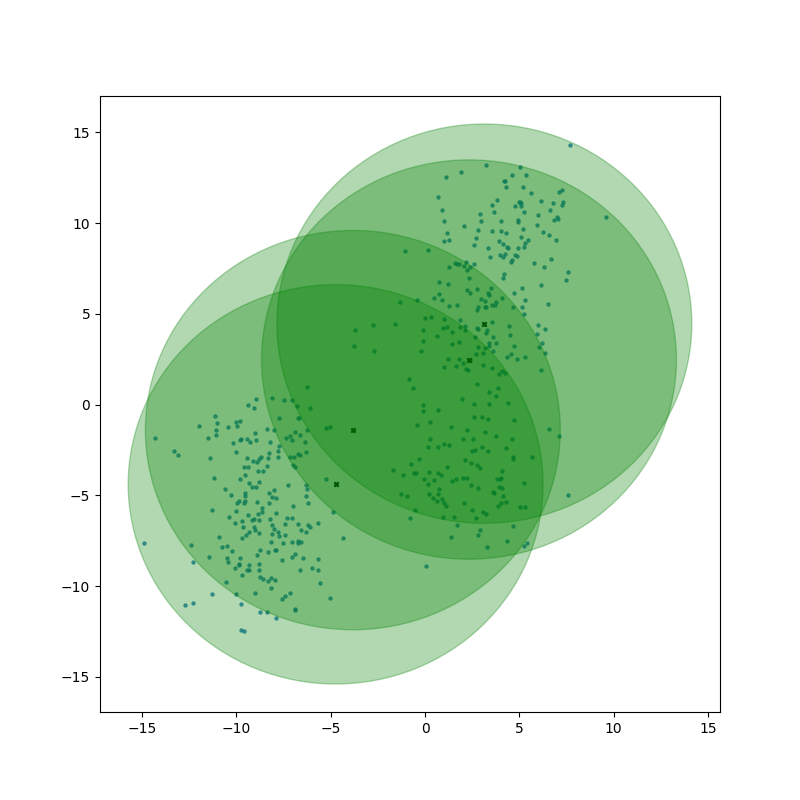
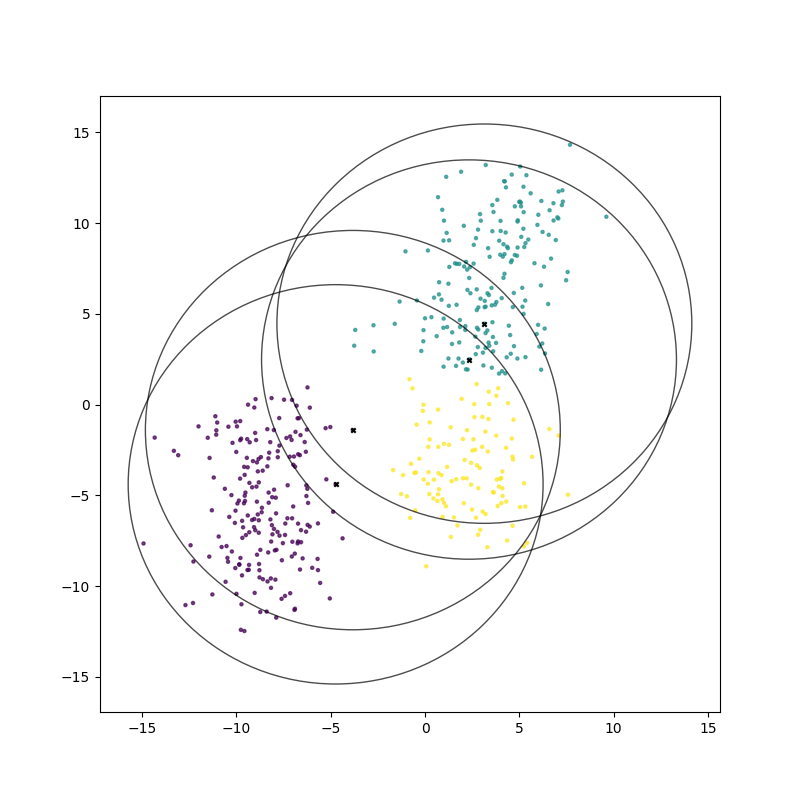
0611

diff --git a/Scatter_circles.py b/Scatter_circles.py
@@ -7,15 +7,15 @@ def scatter_circles(selected_point, radius, data, P):
     title = './result/radius_' + str(radius) + ".png"
 
     fig, ax_nstd = plt.subplots(figsize=(8, 8))
-    
-    plt.scatter(data['X'],data['Y'], s=5, alpha=0.7)
-    if (P==None):
-        for Cx, Cy in selected_point:
-            plt.scatter(Cx, Cy, color = 'k', marker = 'x', s = 10)
-            ax_nstd.add_patch(plt.Circle((Cx, Cy), radius, color='g', alpha=0.3))
+
+    if P.size == 0:
+        plt.scatter(data['X'],data['Y'], s=5, alpha=0.7)
     else:
-        for Cx, Cy in selected_point:
-            plt.scatter(Cx, Cy, color = 'k', marker = 'x', s = 10, c=P)
-            ax_nstd.add_patch(plt.Circle((Cx, Cy), radius, color='lavender', alpha=0.3))
+        plt.scatter(data['X'],data['Y'], s=5, alpha=0.7, c=P)
+
+    for Cx, Cy in selected_point:
+        plt.scatter(Cx, Cy, color = 'k', marker = 'x', s = 10)
+        ax_nstd.add_patch(plt.Circle((Cx, Cy), radius,fill=False, alpha = 0.7))
+            
     plt.show()
     plt.savefig(title)

diff --git a/Cover_set_test.py b/Cover_set_test.py
@@ -2,9 +2,10 @@ from Pre_process import parse_csv
 from Make_total_circle import make_total_circle
 from Process import processing
 from Scatter_circles import scatter_circles
+import numpy as np
 import timeit
 
-def cover_set_test(start, end, path, P=None) :
+def cover_set_test(start, end, path, P=np.array([])) :
     data = parse_csv(path)
     for radius in range(start, end):
         print ("(Creating a circle with radius %d...)" %radius)

diff --git a/Clustering.py b/Clustering.py
@@ -56,4 +56,4 @@ def clustering(start, end, path):
     for i in range(0, cluster_num):
         df_arr.append(groups.get_group(i))
     
-    cover_set_test(start,end,path)
+    cover_set_test(start,end,path, P=P)
